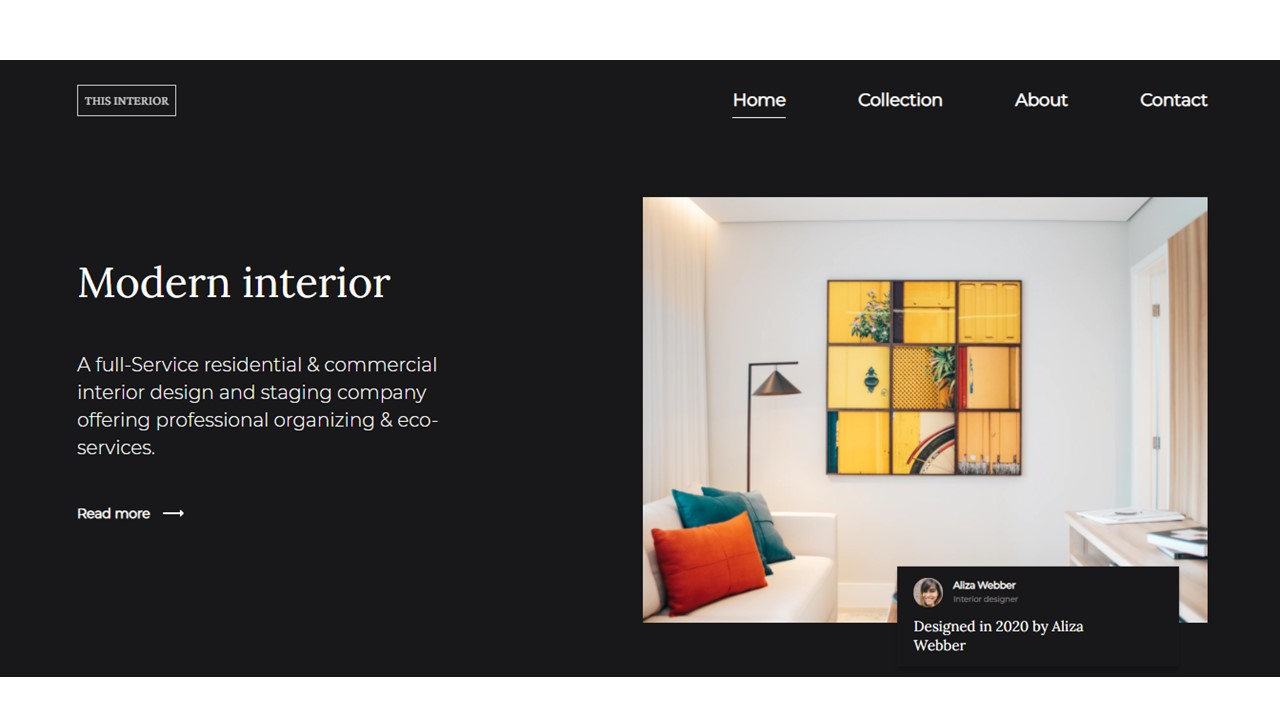
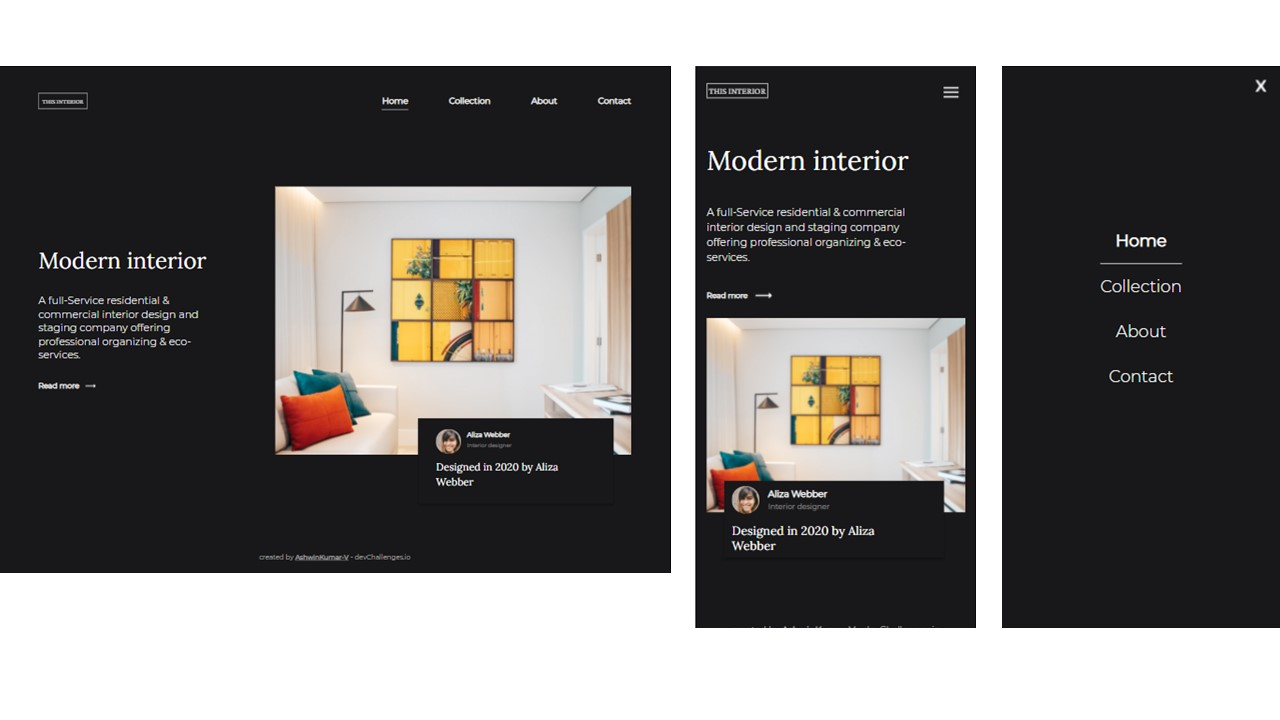
Screenshot updated

diff --git a/README.md b/README.md
@@ -37,7 +37,7 @@
 
 ![screenshot](https://raw.githubusercontent.com/AshwinKumar-V/InteriorConsultant/main/.github/images/Screenshot.jpg)
 
-Hey there devs! This was my third project at devChallenges.io to build a responsive website. This project required JavaScript for some additional functionalities. Yet I managed to enforce it more using CSS rather than JavaScript. Looking forward to learn more using JavaScript in the upcoming projects.
+Hey there devs! This was my third project at devChallenges.io to build a responsive website. This project required JavaScript for some additional functionalities such as collapsed navigation in mobile view and to bring up the navigation upon clicking the menu icon. I managed to enforce it more using CSS rather than JavaScript.
 You can checkout my demo [here](https://ashwinkumar-v.github.io/InteriorConsultant/).
 
 ### Built With
